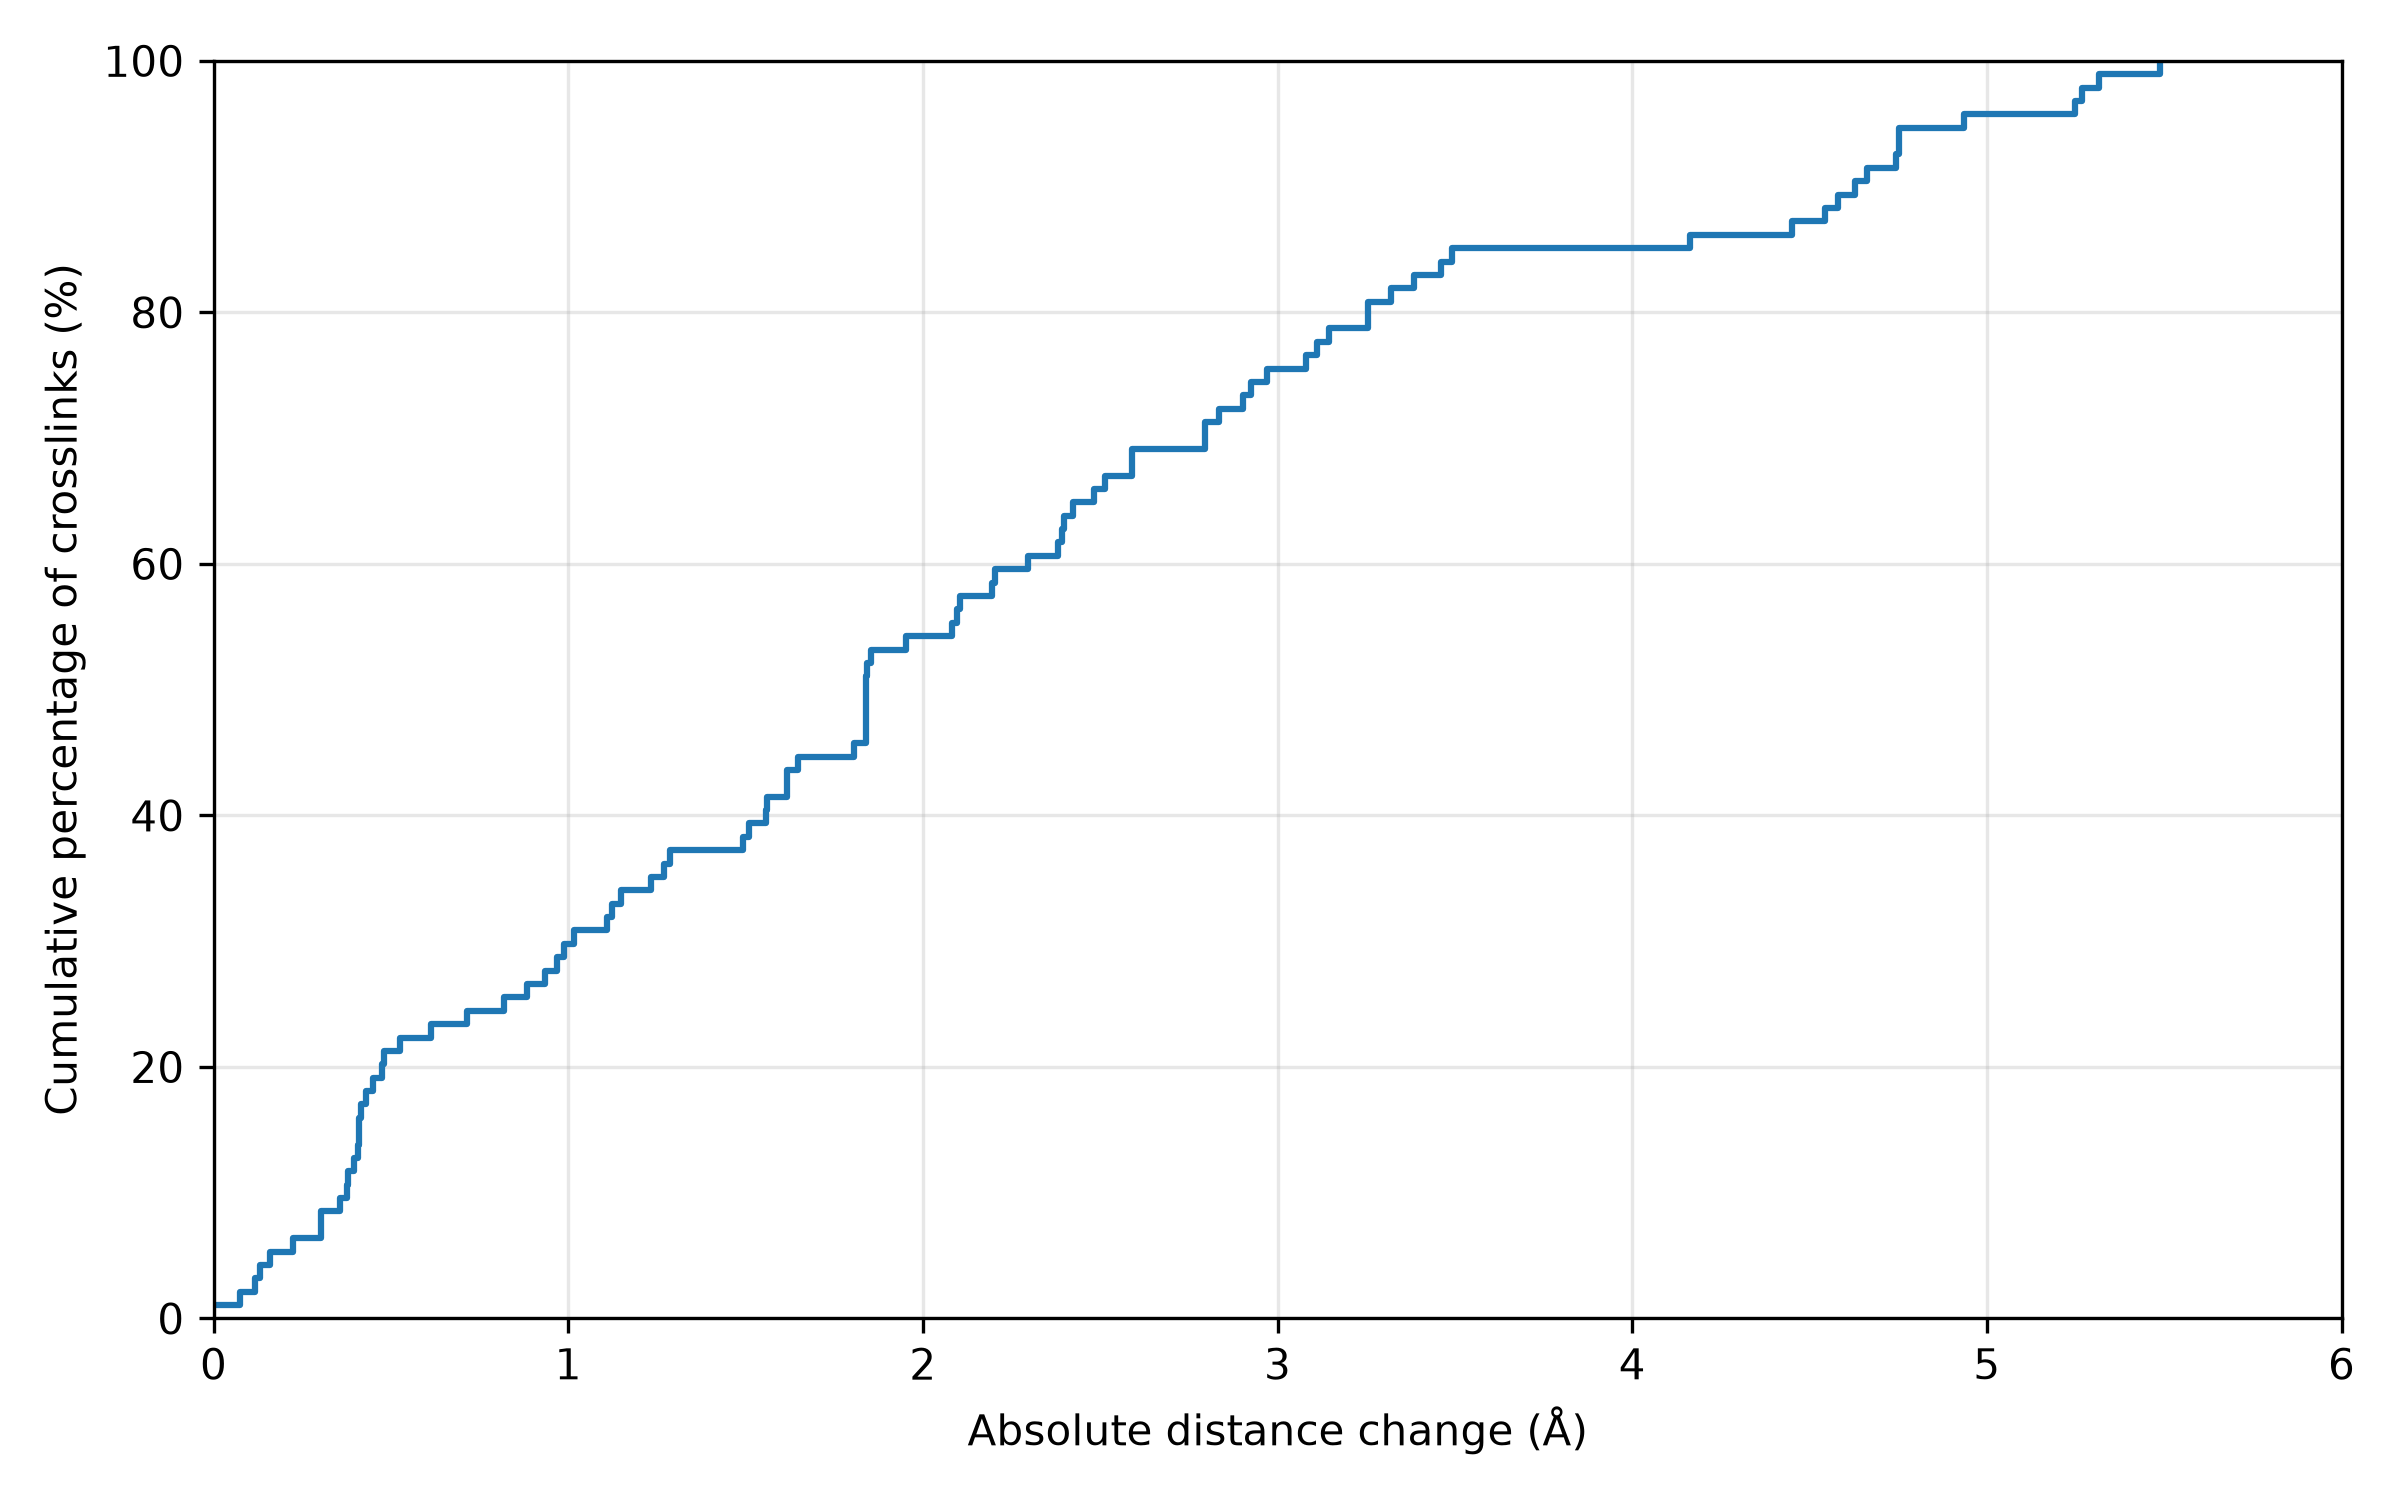
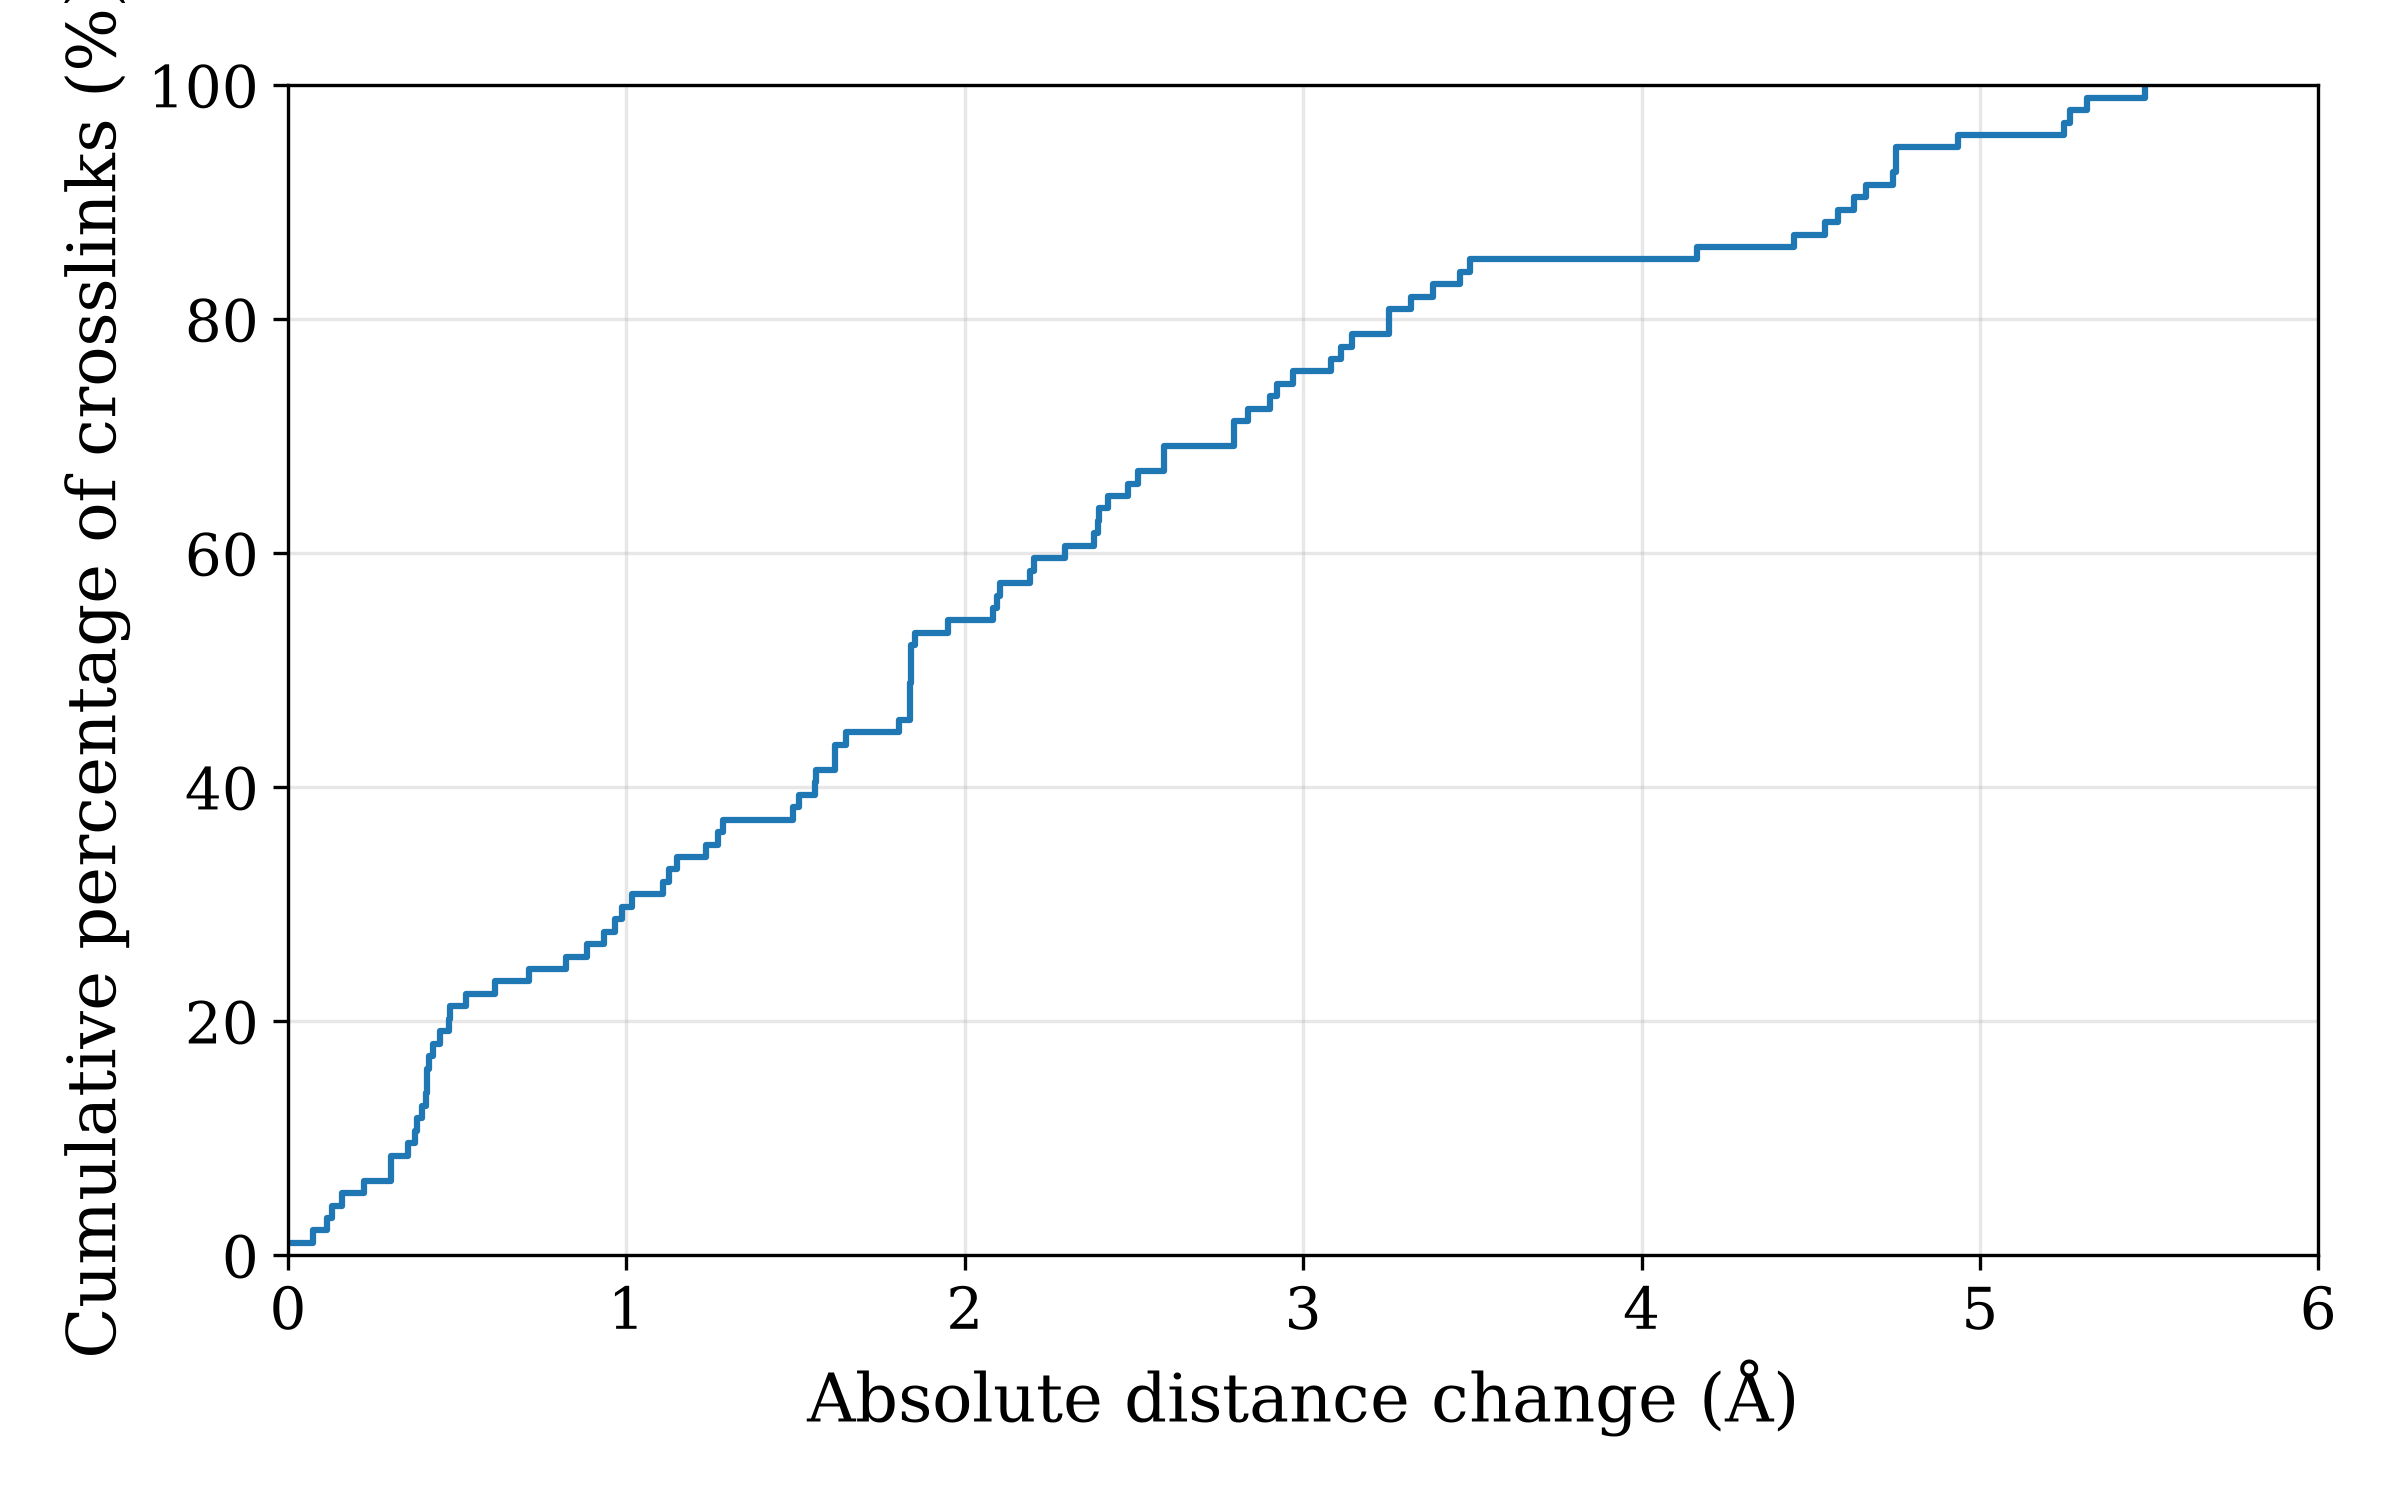
feat: refine text on figures

diff --git a/analysis/create_validation_comparison_figure.py b/analysis/create_validation_comparison_figure.py
@@ -2,6 +2,11 @@ import matplotlib.pyplot as plt
 from pathlib import Path
 
 def create_stacked_bar_chart(crosslinkers, valid, invalid, output_file):
+    plt.rcParams.update({
+        "font.family": "serif",
+        "font.size": 14,
+    })
+    
     plt.bar(crosslinkers, valid, label="Valid")
     plt.bar(crosslinkers, invalid, bottom=valid, label="Invalid")
 
@@ -11,15 +16,31 @@ def create_stacked_bar_chart(crosslinkers, valid, invalid, output_file):
             val/2,
             f"{val:.2f}%",
             ha="center",
-            va="center"
+            va="center",
+            fontsize=14,
+            fontfamily="serif"
         )
-        if inval < 5:
+
+        if round(inval,2) == 0:
+            plt.text(
+                i,
+                inval+2,
+                f"{inval:.2f}%",
+                ha="center",
+                va="bottom",
+                fontsize=14,
+                fontfamily="serif"
+            )
+            
+        elif inval < 5:
             plt.text(
                 i,
                 val+inval/1,
                 f"{inval:.2f}%",
                 ha="center",
-                va="bottom"
+                va="bottom",
+                fontsize=14,
+                fontfamily="serif"
             )
         else: 
             plt.text(
@@ -27,12 +48,20 @@ def create_stacked_bar_chart(crosslinkers, valid, invalid, output_file):
                 val+inval/2,
                 f"{inval:.2f}%",
                 ha="center",
-                va="center"
+                va="center",
+                fontsize=14,
+                fontfamily="serif"
             )
 
-    plt.ylabel("Crosslinks (%)")
+    plt.ylabel(
+        "Crosslinks (%)",
+        fontsize=16,
+        fontfamily="serif"
+    )
     plt.ylim(0, 100)
-    plt.legend()
+    plt.xticks(fontsize=14)
+    plt.yticks(fontsize=14)
+    plt.legend(fontsize=14)
     plt.tight_layout()
     plt.savefig(output_file, dpi=300)
     plt.close()
@@ -43,7 +72,12 @@ def main():
 
     output_dir.mkdir(exist_ok=True)
 
-    crosslinkers = ["Amine-Reactive", "Carboxyl-Reactive", "Disulfide Bonds", "Zero-Length"]
+    crosslinkers = [
+        "Amine-\nReactive", 
+        "Carboxyl-\nReactive", 
+        "Disulfide\nBonds", 
+        "Zero-\nLength"
+    ]
 
     validation_comparison_ca_file = output_dir / "validity_comparison_ca.png"
 

diff --git a/analysis/analyse-cl-results.py b/analysis/analyse-cl-results.py
@@ -249,10 +249,17 @@ def compare_distances(merged: pd.DataFrame, output_file: Path) -> None:
     y = np.arange(1, len(x)+1) / len(x)*100
 
     plt.figure(figsize=(8, 5))
+    plt.rcParams["font.family"]="serif"
+    plt.rcParams["font.size"]=14
     plt.step(x, y, where="post")
-    plt.xlabel("Absolute distance change (Å)")
-    plt.ylabel("Cumulative percentage of crosslinks (%)")
-    plt.xlim(math.floor(merged["absolute_difference"].min()), math.ceil(merged["absolute_difference"].max()))
+    plt.xlabel("Absolute distance change (Å)", fontsize=16)
+    plt.ylabel("Cumulative percentage of crosslinks (%)", fontsize=16)
+    plt.xticks(fontsize=14)
+    plt.yticks(fontsize=14)
+    plt.xlim(
+        math.floor(merged["absolute_difference"].min()), 
+        math.ceil(merged["absolute_difference"].max())
+    )
     plt.ylim(0, 100)
     plt.grid(alpha=0.3)
     plt.tight_layout()

diff --git a/analysis/create_joined_histogram.py b/analysis/create_joined_histogram.py
@@ -51,9 +51,21 @@ def create_separate_histograms(dfs, output_file):
         xmax=np.ceil(values.max())
         ax.set_xlim(xmin, xmax)
 
-        ax.set_title(label)
-        ax.set_xlabel("Distance difference (Å)")
-        ax.set_ylabel("Crosslinks (%)")
+        ax.set_title(label, fontsize=16, fontfamily="serif")
+        ax.set_xlabel(
+            "Distance difference (Å)",
+            fontsize=16,
+            fontfamily="serif"
+        )
+        ax.set_ylabel(
+            "Crosslinks (%)",
+            fontsize=16,
+            fontfamily="serif"
+        )
+
+        ax.tick_params(axis="both", labelsize=14)
+        for tick in ax.get_xticklabels() + ax.get_yticklabels():
+            tick.set_fontfamily("serif")
 
     plt.tight_layout()
     plt.savefig(output_file, dpi=300)
